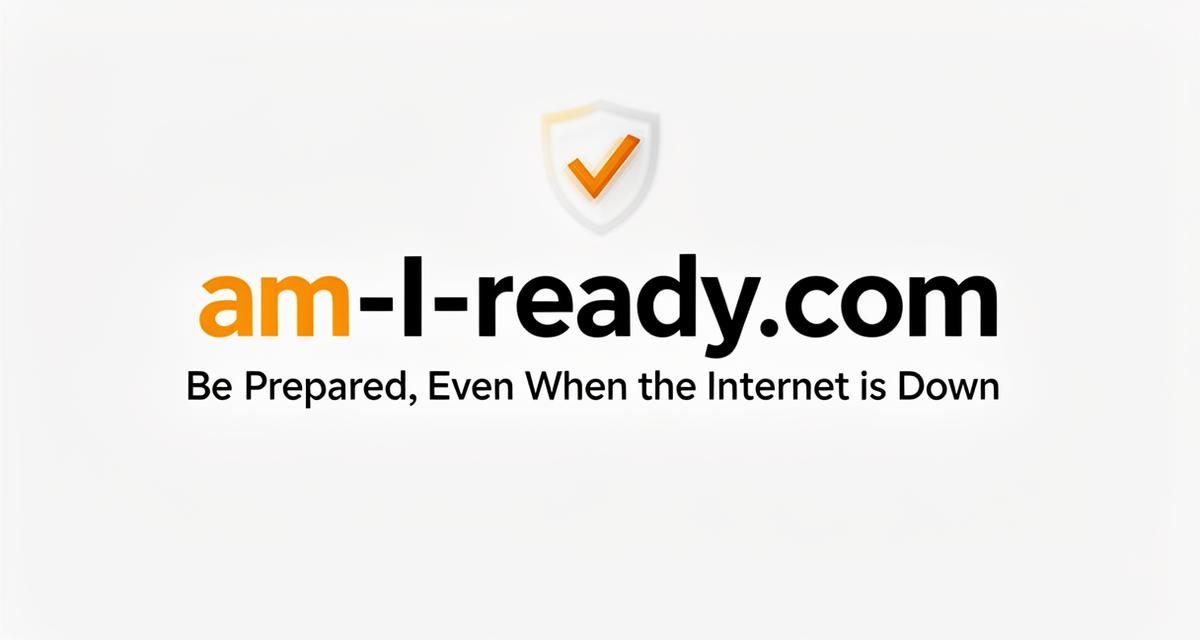
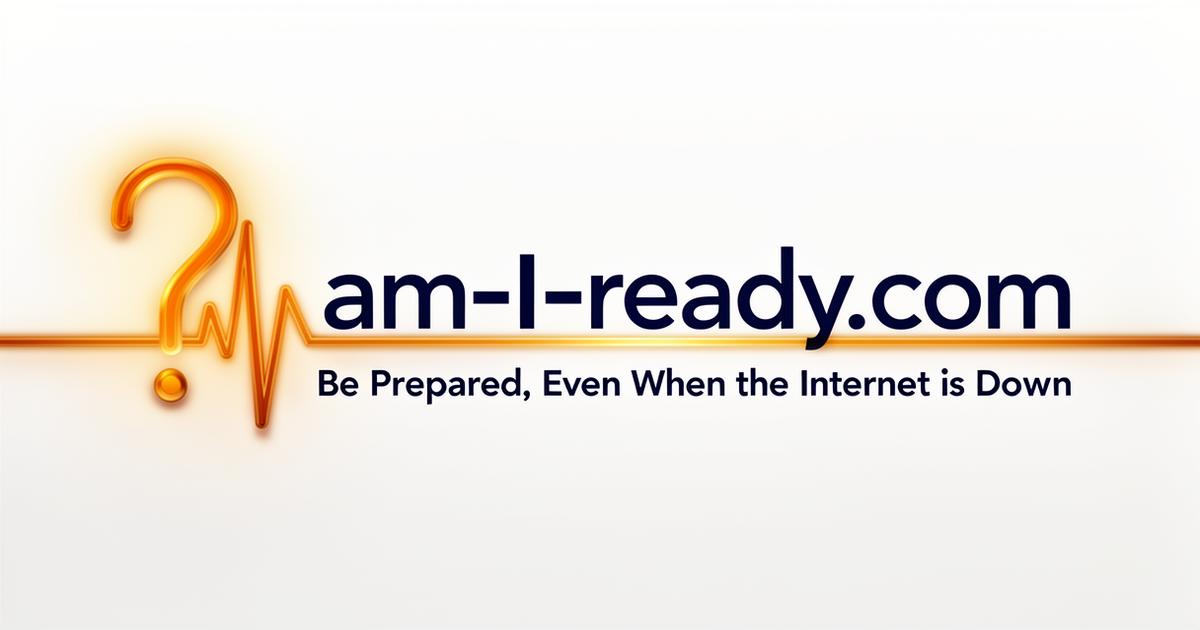
Changes

Changed region(s): [[0.0, 0.2111, 1.0, 0.7238], [0.4317, 0.1508, 0.555, 0.3317]]

diff --git a/src/pages/Auth.tsx b/src/pages/Auth.tsx
@@ -6,7 +6,7 @@ import { Label } from '@/components/ui/label';
 import { Card, CardContent, CardDescription, CardHeader, CardTitle } from '@/components/ui/card';
 import { Tabs, TabsContent, TabsList, TabsTrigger } from '@/components/ui/tabs';
 import { Loader2, Mail, CheckCircle2, ArrowLeft, RefreshCw, Eye, EyeOff, Lock } from 'lucide-react';
-import logoIcon from "@/assets/logo-icon.png";
+import logoPulse from "@/assets/logo-pulse.png";
 import { useAuth } from '@/hooks/useAuth';
 import { useLocale } from '@/i18n/useLocale';
 import { useToast } from '@/hooks/use-toast';
@@ -148,7 +148,7 @@ export default function Auth() {
           {/* Left side - Branding and benefits */}
           <div className="hidden lg:block">
             <div className="flex items-center gap-2 mb-6">
-              <img src={logoIcon} alt="am-I-ready" className="h-10 w-10" />
+              <img src={logoPulse} alt="am-I-ready" className="h-10 w-10" />
               <span className="text-xl font-semibold text-foreground">am-I-ready.com</span>
             </div>
             
@@ -180,7 +180,7 @@ export default function Auth() {
           <Card className="w-full shadow-lg border-border/50">
             <CardHeader className="text-center pb-2">
               <div className="lg:hidden mx-auto mb-4 flex h-12 w-12 items-center justify-center rounded-full bg-primary/10">
-                <img src={logoIcon} alt="am-I-ready" className="h-8 w-8" />
+                <img src={logoPulse} alt="am-I-ready" className="h-8 w-8" />
               </div>
               <CardTitle className="text-xl">
                 {emailSent ? t.auth.checkYourInbox : t.auth.signInTitle}

diff --git a/src/components/Navbar.tsx b/src/components/Navbar.tsx
@@ -32,7 +32,7 @@ import {
 import { LanguageSwitcher } from "@/components/LanguageSwitcher";
 import { useAuth } from "@/hooks/useAuth";
 import { useLocale } from "@/i18n/useLocale";
-import logoIcon from "@/assets/logo-icon.png";
+import logoPulse from "@/assets/logo-pulse.png";
 
 const Navbar = forwardRef<HTMLElement>((_, ref) => {
   const [mobileMenuOpen, setMobileMenuOpen] = useState(false);
@@ -81,7 +81,7 @@ const Navbar = forwardRef<HTMLElement>((_, ref) => {
         <div className="flex items-center justify-between h-16">
           {/* Logo */}
           <Link to="/" className="flex items-center gap-2 group">
-            <img src={logoIcon} alt="am-I-ready" className="h-8 w-8" />
+            <img src={logoPulse} alt="am-I-ready" className="h-8 w-8" />
             <span className="font-semibold text-foreground">am-I-ready.com</span>
           </Link>
 

diff --git a/src/components/Footer.tsx b/src/components/Footer.tsx
@@ -1,6 +1,6 @@
 import { forwardRef } from "react";
 import { Link } from "react-router-dom";
-import logoIcon from "@/assets/logo-icon.png";
+import logoPulse from "@/assets/logo-pulse.png";
 
 const Footer = forwardRef<HTMLElement>((_, ref) => {
   const currentYear = new Date().getFullYear();
@@ -12,7 +12,7 @@ const Footer = forwardRef<HTMLElement>((_, ref) => {
           {/* Brand */}
           <div className="lg:col-span-2">
             <Link to="/" className="flex items-center gap-2 mb-4">
-              <img src={logoIcon} alt="am-I-ready" className="h-8 w-8" />
+              <img src={logoPulse} alt="am-I-ready" className="h-8 w-8" />
               <span className="font-semibold text-foreground">am-I-ready.com</span>
             </Link>
             <p className="text-sm text-muted-foreground max-w-sm mb-4">
